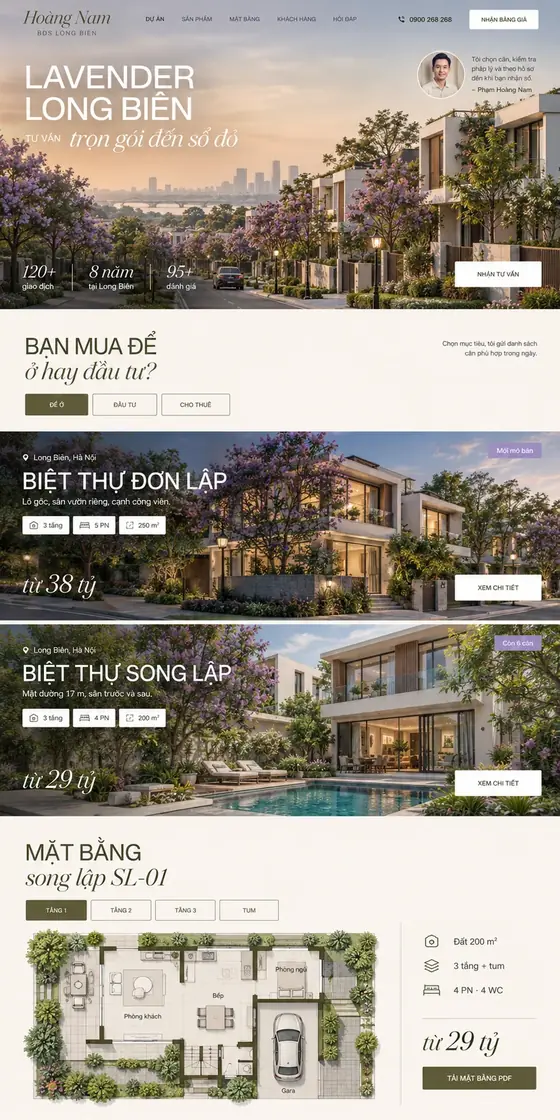
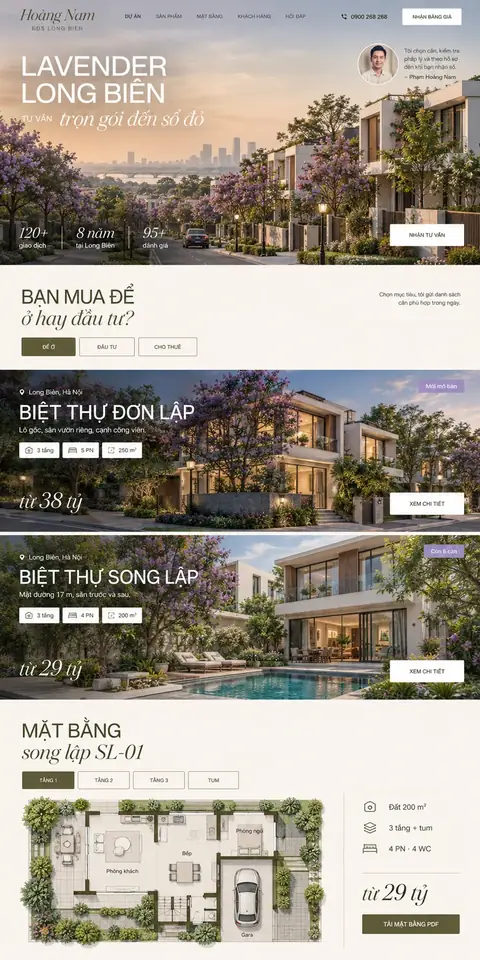
Tải ảnh theo màn hình, ảnh nền mờ chờ tải, chế độ mạng yếu
Claude-Session: https://claude.ai/code/session_01S6qtFasqS5ov5JvG9sioaH

diff --git a/index.html b/index.html
@@ -79,8 +79,9 @@ svg{display:block}
 .wbar i{width:clamp(5px,1.35cqw,10px);height:clamp(5px,1.35cqw,10px);border-radius:50%;background:#D5D0C8}
 .wbar span{position:absolute;left:50%;transform:translateX(-50%);font-size:clamp(8px,1.55cqw,12px);font-weight:600;color:#5C574F;white-space:nowrap;max-width:60%;overflow:hidden;text-overflow:ellipsis}
 .tw .wbar span{display:none}
-.tpane{position:relative;display:block;aspect-ratio:3/4;overflow:hidden;background:#EFEBE4}
-.tpane img{display:block;width:100%;height:auto;will-change:transform}
+.tpane{position:relative;display:block;aspect-ratio:3/4;overflow:hidden;background:#EFEBE4 no-repeat center top/cover}
+.tpane img{display:block;width:100%;height:auto;will-change:transform;opacity:0;transition:opacity .35s}
+.tpane img.ok{opacity:1}
 .tpane img.land{position:absolute;inset:0;height:100%;object-fit:cover;object-position:left top}
 .tcode{position:absolute;left:8px;top:calc(clamp(14px,4.2cqw,32px) + 8px);padding:2px 7px;border-radius:6px;background:rgba(20,14,12,.72);color:#fff;font-family:var(--cond);font-weight:700;font-size:12.5px;letter-spacing:.06em}
 .tw::after{content:attr(data-cta);position:absolute;left:50%;bottom:10px;transform:translate(-50%,10px);opacity:0;white-space:nowrap;
@@ -328,6 +329,9 @@ function mixFor(n){
 const slug=s=>s.normalize('NFD').replace(/[̀-ͯ]/g,'').replace(/đ/g,'d').replace(/Đ/g,'D').toLowerCase().replace(/[^a-z0-9]/g,'')+'.vn';
 const HEART='<svg viewBox="0 0 24 24" fill="none" stroke="currentColor" stroke-width="2"><path d="M12 20s-7-4.4-7-10a4 4 0 0 1 7-2.6A4 4 0 0 1 19 10c0 5.6-7 10-7 10z"/></svg>';
 const reduce=matchMedia('(prefers-reduced-motion: reduce)').matches;
+/* weak connection or data saver: stay on the light images, skip the full-size ones */
+const NET=navigator.connection||{}, SLOW=!!(NET.saveData||/(^|-)2g/.test(NET.effectiveType||''));
[1 lines of base64/hex data omitted]
 const hoverMQ=matchMedia('(hover:hover) and (pointer:fine)');
 const ease='cubic-bezier(.2,.75,.15,1)';
 
@@ -359,13 +363,13 @@ const topH=()=>$('top').offsetHeight;
 
 /* ---------- wall ---------- */
 const nColsFor=()=>innerWidth<640?2:innerWidth<1024?3:4;
-let nCols=0, rio;
+let nCols=0, rio, lio;
 function tileHTML(i,k){
   const cta=hoverMQ.matches?'Bấm để xem trọn trang':'Chạm để xem trọn trang';
   return `<article class="tile" data-code="${i.code}" style="--d:${(k%nCols)*50}ms">
     <button class="tw" type="button" data-open="${i.code}" data-cta="${cta}" aria-label="Xem trọn trang mẫu ${i.name}">
       <span class="wbar"><i></i><i></i><i></i></span>
-      <span class="tpane"><img src="img/${i.code}-p.webp" alt="Mẫu ${i.name}"${i.land?' class="land"':''} width="560" height="${Math.round(560*i.h/i.w)}" decoding="async"${k>3?' loading="lazy"':''}></span>
+      <span class="tpane" style="background-color:${i.tone};background-image:url(${PH[i.code]})"><img data-src="img/${i.code}-p.webp" alt="Mẫu ${i.name}"${i.land?' class="land"':''} width="480" height="${Math.round(480*i.h/i.w)}" decoding="async"></span>
       <span class="tcode">${i.code}</span></button>
     <div class="tmeta"><div><small>${SHORT[i.cat]}</small><b>${i.name}</b></div>
       <button class="heart" type="button" data-save="${i.code}" aria-pressed="${isSaved(i.code)}" aria-label="Lưu mẫu ${i.name}">${HEART}</button></div>
@@ -384,6 +388,13 @@ function buildWall(){
   else{
     rio=new IntersectionObserver(es=>es.forEach(en=>{if(en.isIntersecting){en.target.classList.add('in');rio.unobserve(en.target);needPick=true;}}),{rootMargin:'0px 0px 6% 0px',threshold:.01});
     tiles.forEach(t=>rio.observe(t));
+  }
+  lio&&lio.disconnect();
+  const load=im=>{if(im.src)return; im.addEventListener('load',()=>im.classList.add('ok'),{once:true}); im.src=im.dataset.src;};
+  if(!('IntersectionObserver' in window)){document.querySelectorAll('.tpane img').forEach(load);}
+  else{
+    lio=new IntersectionObserver(es=>es.forEach(en=>{if(en.isIntersecting){load(en.target);lio.unobserve(en.target);}}),{rootMargin:'0px 0px 100% 0px'});
+    document.querySelectorAll('.tpane img').forEach(im=>lio.observe(im));
   }
   needPick=true;
 }
@@ -444,8 +455,9 @@ const flatKF=rad=>({transform:'translate(0px,0px) scale(1)',clipPath:`inset(0px 
 function fillV(k){
   vIdx=k; const i=vList[k];
   vImg.width=i.w; vImg.height=i.h; vImg.alt=`Toàn trang mẫu ${i.name}`; vImg.src=`img/${i.code}-p.webp`;
-  const full=new Image(); full.src=`img/${i.code}.webp`;
-  (full.decode?full.decode():new Promise(r=>full.onload=r)).then(()=>{if(vOpen&&vList[vIdx]===i) vImg.src=full.src;}).catch(()=>{});
+  if(!SLOW){const full=new Image(); full.src=`img/${i.code}.webp`;
+    (full.decode?full.decode():new Promise(r=>full.onload=r)).then(()=>{if(vOpen&&vList[vIdx]===i) vImg.src=full.src;}).catch(()=>{});}
+  vImg.style.backgroundColor=i.tone;
   vPane.classList.toggle('land',!!i.land);
   $('vUrl').textContent=slug(i.name);
   $('vCode').textContent=`${i.code} · ${SHORT[i.cat]}`; $('vName').textContent=i.name;
@@ -456,7 +468,7 @@ function fillV(k){
   document.querySelectorAll('[data-vstep="1"]').forEach(b=>b.disabled=k===vList.length-1);
   document.querySelectorAll('[data-vsave]').forEach(b=>b.setAttribute('aria-pressed',isSaved(i.code)));
   vPane.scrollTop=0; Object.assign(V,{pos:0,dir:1,wait:performance.now()+1500});
-  [vList[k+1],vList[k-1]].forEach(n=>{if(n){const p=new Image();p.src=`img/${n.code}-p.webp`;}});
+  if(!SLOW)[vList[k+1],vList[k-1]].forEach(n=>{if(n){const p=new Image();p.src=`img/${n.code}-p.webp`;}});
 }
 function openV(code,fromTile){
   if(vOpen||animating) return;
